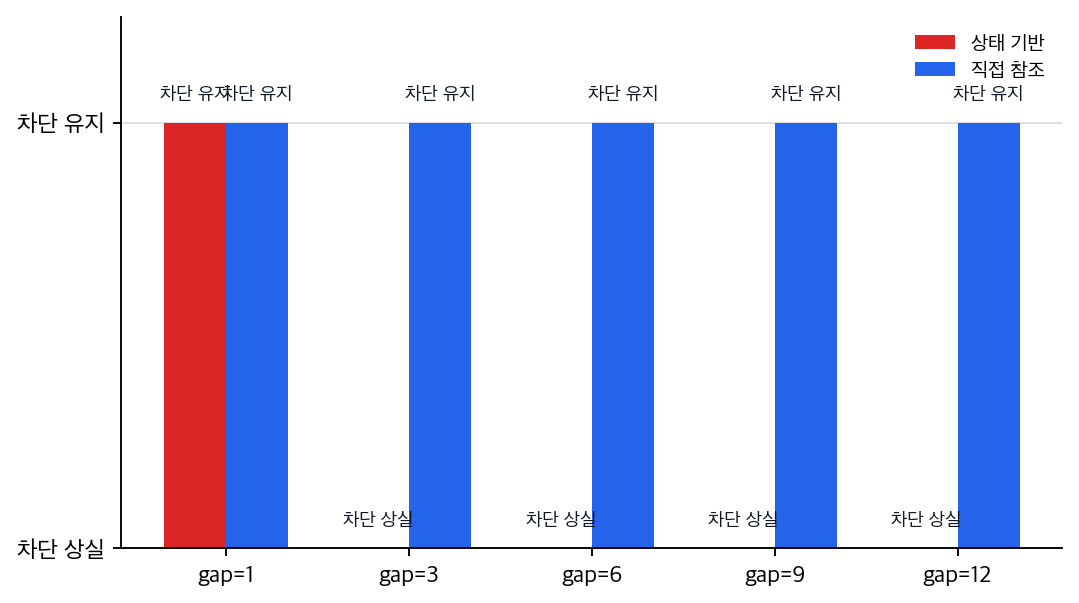
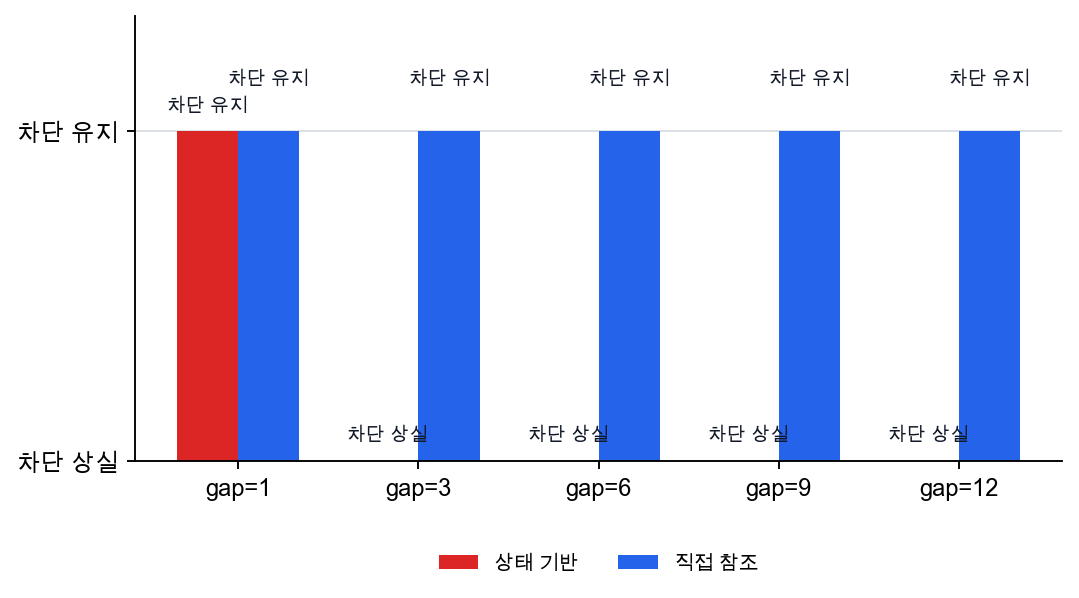
Update Part 5 P5-12.2 translations

Changed region(s): [[0.0, 0.0301, 0.9787, 0.9933]]

diff --git a/docs/assets/part-05/chapter-12/p5_12_2_long_dependency_csv_charts.py b/docs/assets/part-05/chapter-12/p5_12_2_long_dependency_csv_charts.py
@@ -20,9 +20,57 @@ CSV_PATH = OUT_DIR / "long-dependency-instruction-log.csv"
 DECAY = 0.72
 SUPPORT_THRESHOLD = 0.45
 
+LANG_LABELS = {
+    "ko": {
+        "support_label": "상태 기반 핵심 단서 최소값",
+        "threshold_label": "차단 유지 기준",
+        "xlabel": "중간 설명 줄 수(gap)",
+        "ylabel": "상태 기반 핵심 단서 최소값",
+        "state_label": "상태 기반",
+        "direct_label": "직접 참조",
+        "keeps": "차단 유지",
+        "loses": "차단 상실",
+        "state_support_file": "long-dependency-csv-state-support-ko.png",
+        "decision_file": "long-dependency-csv-decision-comparison-ko.png",
+    },
+    "en": {
+        "support_label": "minimum key-cue value in state",
+        "threshold_label": "block-retention threshold",
+        "xlabel": "middle explanation lines (gap)",
+        "ylabel": "minimum key-cue value in state",
+        "state_label": "state-based",
+        "direct_label": "direct reference",
+        "keeps": "keeps block",
+        "loses": "loses block",
+        "state_support_file": "long-dependency-csv-state-support-en.png",
+        "decision_file": "long-dependency-csv-decision-comparison-en.png",
+    },
+    "zh": {
+        "support_label": "状态中的关键线索最小值",
+        "threshold_label": "维持阻断阈值",
+        "xlabel": "中间说明行数（gap）",
+        "ylabel": "状态中的关键线索最小值",
+        "state_label": "基于状态",
+        "direct_label": "直接引用",
+        "keeps": "维持阻断",
+        "loses": "失去阻断",
+        "state_support_file": "long-dependency-csv-state-support-zh.png",
+        "decision_file": "long-dependency-csv-decision-comparison-zh.png",
+    },
+}
+
 
 def choose_font() -> str:
-    candidates = ["Noto Sans CJK KR", "NanumGothic", "Apple SD Gothic Neo", "AppleGothic", "Arial Unicode MS", "DejaVu Sans"]
+    candidates = [
+        "Noto Sans CJK KR",
+        "NanumGothic",
+        "Arial Unicode MS",
+        "Songti SC",
+        "Heiti TC",
+        "Apple SD Gothic Neo",
+        "AppleGothic",
+        "DejaVu Sans",
+    ]
     available = {font.name for font in font_manager.fontManager.ttflist}
     for candidate in candidates:
         if candidate in available:
@@ -98,29 +146,29 @@ def style_axis(ax) -> None:
     ax.spines["right"].set_visible(False)
 
 
-def save_state_support_chart(gaps: np.ndarray, supports: np.ndarray) -> None:
+def save_state_support_chart(gaps: np.ndarray, supports: np.ndarray, labels: dict[str, str]) -> None:
     configure_font()
     fig, ax = plt.subplots(figsize=(6.4, 3.8), dpi=170)
     fig.patch.set_facecolor("white")
     style_axis(ax)
 
-    ax.plot(gaps, supports, marker="o", linewidth=2.2, color="#dc2626", label="상태 기반 핵심 단서 최소값")
-    ax.axhline(SUPPORT_THRESHOLD, color="#475569", linewidth=1.2, linestyle=(0, (4, 3)), label="차단 유지 기준")
+    ax.plot(gaps, supports, marker="o", linewidth=2.2, color="#dc2626", label=labels["support_label"])
+    ax.axhline(SUPPORT_THRESHOLD, color="#475569", linewidth=1.2, linestyle=(0, (4, 3)), label=labels["threshold_label"])
     for gap, value in zip(gaps, supports):
         ax.text(gap, value + 0.035, f"{value:.3f}".rstrip("0").rstrip("."), ha="center", fontsize=8.5, color="#7f1d1d")
 
     ax.set_xticks(gaps)
-    ax.set_xlabel("중간 설명 줄 수(gap)")
-    ax.set_ylabel("상태 기반 핵심 단서 최소값")
+    ax.set_xlabel(labels["xlabel"])
+    ax.set_ylabel(labels["ylabel"])
     ax.set_ylim(0, 0.62)
     ax.legend(frameon=False, loc="upper right", fontsize=8.3)
 
     fig.tight_layout(pad=0.9)
-    fig.savefig(OUT_DIR / "long-dependency-csv-state-support-ko.png", format="png", bbox_inches="tight")
+    fig.savefig(OUT_DIR / labels["state_support_file"], format="png", bbox_inches="tight")
     plt.close(fig)
 
 
-def save_decision_chart(gaps: np.ndarray, state_decisions: list[str], direct_decisions: list[str]) -> None:
+def save_decision_chart(gaps: np.ndarray, state_decisions: list[str], direct_decisions: list[str], labels: dict[str, str]) -> None:
     configure_font()
     x = np.arange(len(gaps))
     width = 0.34
@@ -135,29 +183,30 @@ def save_decision_chart(gaps: np.ndarray, state_decisions: list[str], direct_dec
     ax.spines["top"].set_visible(False)
     ax.spines["right"].set_visible(False)
 
-    bars_state = ax.bar(x - width / 2, state_values, width, color="#dc2626", label="상태 기반")
-    bars_direct = ax.bar(x + width / 2, direct_values, width, color="#2563eb", label="직접 참조")
-    for bars, decisions in ((bars_state, state_decisions), (bars_direct, direct_decisions)):
+    bars_state = ax.bar(x - width / 2, state_values, width, color="#dc2626", label=labels["state_label"])
+    bars_direct = ax.bar(x + width / 2, direct_values, width, color="#2563eb", label=labels["direct_label"])
+    for bars, decisions, y_offset in ((bars_state, state_decisions, 0.05), (bars_direct, direct_decisions, 0.13)):
         for bar, decision in zip(bars, decisions):
-            label = "차단 유지" if decision == "keeps block" else "차단 상실"
-            ax.text(bar.get_x() + bar.get_width() / 2, bar.get_height() + 0.05, label, ha="center", va="bottom", fontsize=8.0, color="#111827")
+            label = labels["keeps"] if decision == "keeps block" else labels["loses"]
+            ax.text(bar.get_x() + bar.get_width() / 2, bar.get_height() + y_offset, label, ha="center", va="bottom", fontsize=8.0, color="#111827")
 
     ax.set_xticks(x)
     ax.set_xticklabels([f"gap={gap}" for gap in gaps])
-    ax.set_ylim(0, 1.25)
+    ax.set_ylim(0, 1.35)
     ax.set_yticks([0, 1])
-    ax.set_yticklabels(["차단 상실", "차단 유지"])
-    ax.legend(frameon=False, loc="upper right", fontsize=8.4)
+    ax.set_yticklabels([labels["loses"], labels["keeps"]])
+    ax.legend(frameon=False, loc="upper center", bbox_to_anchor=(0.5, -0.17), ncol=2, fontsize=8.4)
 
     fig.tight_layout(pad=0.9)
-    fig.savefig(OUT_DIR / "long-dependency-csv-decision-comparison-ko.png", format="png", bbox_inches="tight")
+    fig.savefig(OUT_DIR / labels["decision_file"], format="png", bbox_inches="tight")
     plt.close(fig)
 
 
 def main() -> None:
     gaps, supports, state_decisions, direct_decisions = build_outputs()
-    save_state_support_chart(gaps, supports)
-    save_decision_chart(gaps, state_decisions, direct_decisions)
+    for labels in LANG_LABELS.values():
+        save_state_support_chart(gaps, supports, labels)
+        save_decision_chart(gaps, state_decisions, direct_decisions, labels)
 
 
 if __name__ == "__main__":

diff --git a/docs/parts/part-05/chapter-12/section-02.en.md b/docs/parts/part-05/chapter-12/section-02.en.md
@@ -1,7 +1,7 @@
 # P5-12.2 Long-Term Dependency
 
 > Section ID: `P5-12.2`
-> Version: `v2026.07.19`
+> Version: `v2026.07.20`
 
 In P5-12.1, we explained that RNNs, LSTMs, and GRUs are structures that appeared to handle sequence data. The very next question appears here.
 
@@ -11,7 +11,7 @@ The concept that answers this question is long-term dependency.
 
 Long-term dependency means a problem where information from far earlier matters for the current judgment, but the model cannot maintain or pass that information forward for long enough.
 
-When reading the later attention chapters and needing to confirm again the starting point of the distance problem, return to the glossary entry on [long-term dependency](/AiBook/reference/concept-glossary/#long-term-dependency).
+When reading the later attention chapters and needing to confirm again the starting point of the distance problem, return to the glossary entry on [long-term dependency](../../../reference/concept-glossary.md#long-term-dependency).
 
 ## Scope Of This Section
 
@@ -118,13 +118,14 @@ The result to confirm in this diagram is that as the important cue from an earli
 
 ## Practice And Example
 
-The goal of this example is to confirm directly how quickly a sequential state loses an earlier cue as the gap between `the early rule` and `the final question` grows longer. For comparison, we place it side by side with a method that `looks the rule up again directly`, but the first core to hold here is how the state-based method shakes as the gap length changes.
+The goal of this example is to confirm directly how quickly a sequential state loses an earlier cue as the gap between `the early rule` and `the final question` grows longer. We place the input in a CSV file where lines from several documents are mixed together. Python restores the line order for each `document_id`, then compares state weakening by gap length. Direct reference is not code that implements attention. It is only a comparison baseline for contrasting `a baseline that can look again at a far earlier position` with a state-preservation method.
 
 Input:
 
 - one line of a core no-restart rule at the very beginning of the document
 - middle explanation sections of different lengths
 - one identical restart question at the end of the document
+- input file: [`long-dependency-instruction-log.csv`](../../../assets/part-05/chapter-12/long-dependency-instruction-log.csv){ .csv-preview }
 
 Output:
 
@@ -145,7 +146,7 @@ Concepts to confirm:
 
 Input:
 
-We use the rule sentence, the question sentence, and the document lines summarized above.
+A row in the CSV means one line inside one document. `document_id` groups rows from the same document, `gap` is the number of middle explanation lines between the rule line and the question line, `line_no` is the line order inside the document, and `role` distinguishes rule, middle explanation, and question. The Python example reads this file, restores the line order by document, and calculates how much of the earlier rule cue remains inside the state at the question point.
 
 Before looking at the code, it helps to predict first what outputs will shake as the gap becomes longer and what outputs will remain stable. That makes the difference between `state preservation` and `direct reference` clearer.
 
@@ -159,14 +160,27 @@ Before looking at the code, it helps to predict first what outputs will shake as
 The purpose of this table is not to memorize the exact numbers in advance. Even with the same rule and the same question, it is there to help hold before the code that sequential state can shake as the gap grows longer, while direct reference can pick up the same position again.
 
 ```python
-# This example compares how sequential state preservation and direct reference decisions differ as the gap between rule and question grows.
-restart_block_rule = "Rule: restart stays blocked until vessel pressure is fully vented."
-restart_question = "Question: can the line restart now?"
+from collections import defaultdict
+from pathlib import Path
+import csv
 
-def sequential_state(instruction_document, decay=0.72):
+DATA_PATH = Path("docs/assets/part-05/chapter-12/long-dependency-instruction-log.csv")
+DECAY = 0.72
+SUPPORT_THRESHOLD = 0.45
+
+def load_documents(path):
+    documents = defaultdict(list)
+    with path.open(encoding="utf-8", newline="") as f:
+        for row in csv.DictReader(f):
+            documents[row["document_id"]].append(row)
+    for rows in documents.values():
+        rows.sort(key=lambda row: int(row["line_no"]))
+    return dict(sorted(documents.items(), key=lambda item: int(item[1][0]["gap"])))
+
+def sequential_state(rows, decay=DECAY):
     state = {"restart": 0.0, "blocked": 0.0, "pressure": 0.0}
-    for line in instruction_document:
-        lowered = line.lower()
+    for row in rows:
+        lowered = row["text"].lower()
         for key in state:
             state[key] *= decay
         if "restart" in lowered:
@@ -176,84 +190,81 @@ def sequential_state(instruction_document, decay=0.72):
         if "pressure" in lowered or "vented" in lowered:
             state["pressure"] += 1.0
     support = round(min(state.values()), 3)
-    decision = "keeps block" if support >= 0.45 else "loses block"
+    decision = "keeps block" if support >= SUPPORT_THRESHOLD else "loses block"
     return {key: round(value, 3) for key, value in state.items()}, support, decision
 
-def direct_reference(instruction_document):
-    matches = []
-    for idx, line in enumerate(instruction_document[:-1], start=1):
-        lowered = line.lower()
-        score = 0
-        for keyword in ["restart", "blocked", "pressure"]:
-            if keyword in lowered:
-                score += 1
-        matches.append((score, idx, line))
-    best = max(matches)
+def direct_reference(rows):
+    best = (0, "", "")
+    for row in rows:
+        if row["role"] == "question":
+            continue
+        lowered = row["text"].lower()
+        score = sum(1 for keyword in ["restart", "blocked", "pressure"] if keyword in lowered)
+        if score > best[0]:
+            best = (score, row["line_no"], row["text"])
     decision = "keeps block" if best[0] == 3 else "loses block"
     return best, decision
 
-for gap in [1, 3, 6]:
-    filler = [
-        f"Detail line {i}: general maintenance note only."
-        for i in range(1, gap + 1)
-    ]
-    instruction_document = [restart_block_rule] + filler + [restart_question]
-    state_snapshot, state_support, state_decision = sequential_state(instruction_document)
-    best_match, direct_decision = direct_reference(instruction_document)
-    print(f"[gap={gap}]")
-    print("document_length =", len(instruction_document))
-    print("state_snapshot =", state_snapshot)
-    print("state_support =", state_support)
-    print("state_decision =", state_decision)
-    print("direct_match_score =", best_match[0])
-    print("best_direct_match =", best_match[2])
-    print("direct_decision =", direct_decision)
-    print()
+documents = load_documents(DATA_PATH)
+
+print(f"Control variables: DECAY={DECAY}, SUPPORT_THRESHOLD={SUPPORT_THRESHOLD}")
+print()
+print("[summary: how much of the earlier rule cue remains as the gap grows]")
+print("document_id  gap  lines  state_support  state_decision  direct_score  direct_decision")
+for document_id, rows in documents.items():
+    state_snapshot, state_support, state_decision = sequential_state(rows)
+    best_match, direct_decision = direct_reference(rows)
+    print(
+        f"{document_id:10} {rows[0]['gap']:>4} {len(rows):>6} "
+        f"{state_support:>14.3f}  {state_decision:14} "
+        f"{best_match[0]:>12}  {direct_decision}"
+    )
+
+print()
+print("[trace: doc_gap_6]")
+trace_rows = documents["doc_gap_6"]
+state_snapshot, state_support, state_decision = sequential_state(trace_rows)
+best_match, direct_decision = direct_reference(trace_rows)
+print("state_snapshot =", state_snapshot)
+print("state_support =", state_support)
+print("state_decision =", state_decision)
+print("best_direct_match =", best_match[2])
+print("direct_decision =", direct_decision)
 ```
 
-In the output, start by looking at whether `state_support` weakens as the gap grows and whether `direct_match_score` stays unchanged.
+In the output, start by looking at whether `state_support` weakens as the gap grows. `direct_score` and `direct_decision` are not the result of implementing attention. They are only a comparison baseline showing that, if the same earlier rule line can be found again, distance itself does not directly lower the judgment.
 
 ```text
-[gap=1]
-document_length = 3
-state_snapshot = {'restart': 1.518, 'blocked': 0.518, 'pressure': 0.518}
-state_support = 0.518
-state_decision = keeps block
-direct_match_score = 3
-best_direct_match = Rule: restart stays blocked until vessel pressure is fully vented.
-direct_decision = keeps block
+Control variables: DECAY=0.72, SUPPORT_THRESHOLD=0.45
 
-[gap=3]
-document_length = 5
-state_snapshot = {'restart': 1.269, 'blocked': 0.269, 'pressure': 0.269}
-state_support = 0.269
-state_decision = loses block
-direct_match_score = 3
-best_direct_match = Rule: restart stays blocked until vessel pressure is fully vented.
-direct_decision = keeps block
+[summary: how much of the earlier rule cue remains as the gap grows]
+document_id  gap  lines  state_support  state_decision  direct_score  direct_decision
+doc_gap_1     1      3          0.518  keeps block               3  keeps block
+doc_gap_3     3      5          0.269  loses block               3  keeps block
+doc_gap_6     6      8          0.100  loses block               3  keeps block
+doc_gap_9     9     11          0.037  loses block               3  keeps block
+doc_gap_12   12     14          0.014  loses block               3  keeps block
 
-[gap=6]
-document_length = 8
+[trace: doc_gap_6]
 state_snapshot = {'restart': 1.1, 'blocked': 0.1, 'pressure': 0.1}
 state_support = 0.1
 state_decision = loses block
-direct_match_score = 3
-best_direct_match = Rule: restart stays blocked until vessel pressure is fully vented.
+best_direct_match = Rule restart stays blocked until vessel pressure is fully vented
 direct_decision = keeps block
 ```
 
 - even with the same no-restart rule and the same question, as the gap between them grows longer, the `blocked` and `pressure` cues inside the sequential state weaken quickly
 - `state_support` shows how much of the core cue remains at the question point, and it drops quickly as the gap grows longer
 - when the number of middle explanation lines increases, the state-based method becomes more likely to lose the earlier core safety condition
-- even when the gap grows longer, a method that directly looks up the rule again can still pick up the same rule line, and here `direct_match_score` remains 3 throughout
+- the direct-reference comparison is only a baseline for the next chapter. Here `direct_score` remains 3 throughout, so we only confirm that the distance problem appears more directly in the state-preservation method
 
 The first result to look at in this example is the flow in which `state_support` falls below the threshold as the gap grows longer. Even with the same rule and the same question, when more middle explanation lines are inserted, the `blocked` and `pressure` cues inside the sequential state weaken quickly.
 
-![State-based cue retention in the long-term dependency example](/AiBook/assets/part-05/chapter-12/long-dependency-state-support-en.png)
+![State-based cue retention in the long-term dependency example](../../../assets/part-05/chapter-12/long-dependency-csv-state-support-en.png)
 
-The second result is the difference between the state-based decision and the direct-reference decision. In `gap=3` and `gap=6`, the state-based decision changes to `loses block`, but direct reference keeps `keeps block` because it can pick up the earlier rule line again.
+The second result is the difference between the state-based decision and the direct-reference comparison baseline. From `gap=3`, the state-based decision changes to `loses block`, but the direct-reference baseline keeps `keeps block` because it can pick up the earlier rule line again.
 
-![State-based versus direct-reference decision in the long-term dependency example](/AiBook/assets/part-05/chapter-12/long-dependency-decision-comparison-en.png)
+![State-based versus direct-reference decision in the long-term dependency example](../../../assets/part-05/chapter-12/long-dependency-csv-decision-comparison-en.png)
 
 If we reread the output as an operational judgment, it becomes clearer that the long-term dependency problem is not only a score drop, but a shaking in how a safety measure is interpreted.
 
@@ -271,12 +282,11 @@ If we just saw in P5-12.1 `a structure that carries sequential state forward`, h
 
 ## Checklist
 
-- Can you explain what problem long-term dependency means?
+- Can you explain long-term dependency as `the problem where old information matters but is not maintained well enough, so the current judgment shakes`?
 - Can you say why the difficulty of maintaining old information leads to attention?
-- Can you explain that long-term dependency is the problem where earlier information matters but is not maintained enough?
 - Can you say that in a basic RNN, a distant earlier cue can easily weaken as time grows longer?
 - Can you explain that LSTM and GRU are structures that try to handle this problem better?
-- Can you explain long-term dependency not merely as `memory gets a little weaker`, but as the problem of `whether the current judgment itself shakes when the earlier cue is missing`?
+- Can you explain why `state_support` shrinks as the gap grows longer?
 - Can you talk about state preservation and direct reference as two different ideas?
 - When reading the next chapter on attention, are you ready first to ask `which earlier position needs to be looked at again`?
 

diff --git a/management/release-notes/sections/part-05/P5-12.2.md b/management/release-notes/sections/part-05/P5-12.2.md
@@ -8,11 +8,15 @@
 - 본문 반영: direct reference 설명을 attention 구현이 아니라 다음 장으로 가기 위한 대비 기준으로 제한하고, 현재 절의 중심을 gap 증가에 따른 상태 보존 실패로 다시 고정했다.
 - 본문 반영: 체크리스트의 장기 의존성 정의 중복 항목을 줄이고, `gap이 길어질수록 state_support가 왜 줄어드는지 설명할 수 있는가` 항목을 추가했다.
 - 관련 자산: `docs/assets/part-05/chapter-12/long-dependency-instruction-log.csv`, `p5_12_2_long_dependency_csv_charts.py`, `long-dependency-csv-state-support-ko.png`, `long-dependency-csv-decision-comparison-ko.png`를 추가했다. CSV에는 헤더 포함 42행, 데이터 41행을 담아 gap별 문서 line 구성을 분리했다.
+- 추가 반영: 한국어 원문의 CSV 입력 파일 링크에 `{ .csv-preview }` 표시를 붙여, 원본 링크를 유지하면서 향후 `내용 보기` 기능 적용 대상임을 명시했다.
+- 추가 반영: `csv-preview.js`와 공통 스타일을 추가하고 `mkdocs.yml`에 등록해, `{ .csv-preview }`가 붙은 CSV 링크 옆에 접이식 `내용 보기` 미리보기가 표시되도록 했다.
+- 추가 반영: 브라우저 기본 `summary` 마커가 버튼 텍스트와 겹치지 않도록 CSV 미리보기를 일반 버튼과 별도 패널 구조로 정리했다.
 - 저작권 검토: Part 5 Module 5 순차 검토 범위에서 장기 의존성, 상태 보존과 직접 참조 대비, LSTM/GRU handoff, Python 예제와 그래프를 확인했다. 사례·표·예제 코드는 자체 작성 자료로 판단했다.
 - 출처 사용 점검: Hochreiter·Schmidhuber, Bengio·Simard·Frasconi, Goodfellow et al.은 장기 의존성과 gradient 학습 어려움 배경 확인 용도로만 연결되어 있으며, 원문 증명·도식·표·코드 재사용 정황은 찾지 못했다.
 - 관련 자산: `long-term-dependency-flow-ko.mmd`, `state-vs-direct-reference-flow-ko.mmd`, `long-dependency-*.png`는 자체 도식과 로컬 생성 스크립트 기반 자산으로 판단했다.
-- 번역 동기화 메모: 영어·중국어 간체 번역본은 이전 원문 본문 기준 버전까지 반영되어 있다. 이번 한국어 원문의 CSV 기반 Python 예제, direct reference 대비 기준 표현, 한국어 전용 CSV 그래프는 향후 번역 시 같은 학습 흐름으로 반영해야 한다.
-- 번역 반영 상태: 영문/중문 번역 미반영
+- 번역 동기화 메모: 영어·중국어 간체 번역본을 `v2026.07.20` 원문 기준으로 갱신했다. 두 번역본 모두 CSV 입력 파일 링크와 `{ .csv-preview }`, `document_id`별 line 순서 복원 예제, gap별 `state_support` 감소 출력, direct reference를 attention 구현이 아닌 대비 기준으로 제한하는 설명을 반영했다.
+- 번역 자산 반영: `long-dependency-csv-state-support-en.png`, `long-dependency-csv-decision-comparison-en.png`, `long-dependency-csv-state-support-zh.png`, `long-dependency-csv-decision-comparison-zh.png`를 추가하고, `p5_12_2_long_dependency_csv_charts.py`가 한국어·영어·중국어 PNG를 같은 CSV 입력에서 생성하도록 갱신했다.
+- 번역 반영 상태: 영문/중문 번역 반영 완료
 - 원문 기준 버전: `v2026.07.20`
 
 ### v2026.07.19

diff --git a/docs/assets/part-05/chapter-12/README.md b/docs/assets/part-05/chapter-12/README.md
@@ -15,8 +15,8 @@
   - `rnn-temporary-spike-state-en.svg` / `rnn-temporary-spike-state-ko.svg` / `rnn-temporary-spike-state-zh.svg`
   - `rnn-sequence-csv-state-trace-ko.svg`
 - PNG chart assets:
-  - `long-dependency-csv-state-support-ko.png`
-  - `long-dependency-csv-decision-comparison-ko.png`
+  - `long-dependency-csv-state-support-en.png` / `long-dependency-csv-state-support-ko.png` / `long-dependency-csv-state-support-zh.png`
+  - `long-dependency-csv-decision-comparison-en.png` / `long-dependency-csv-decision-comparison-ko.png` / `long-dependency-csv-decision-comparison-zh.png`
   - `long-dependency-state-support-en.png` / `long-dependency-state-support-ko.png` / `long-dependency-state-support-zh.png`
   - `long-dependency-decision-comparison-en.png` / `long-dependency-decision-comparison-ko.png` / `long-dependency-decision-comparison-zh.png`
 - CSV input assets:
